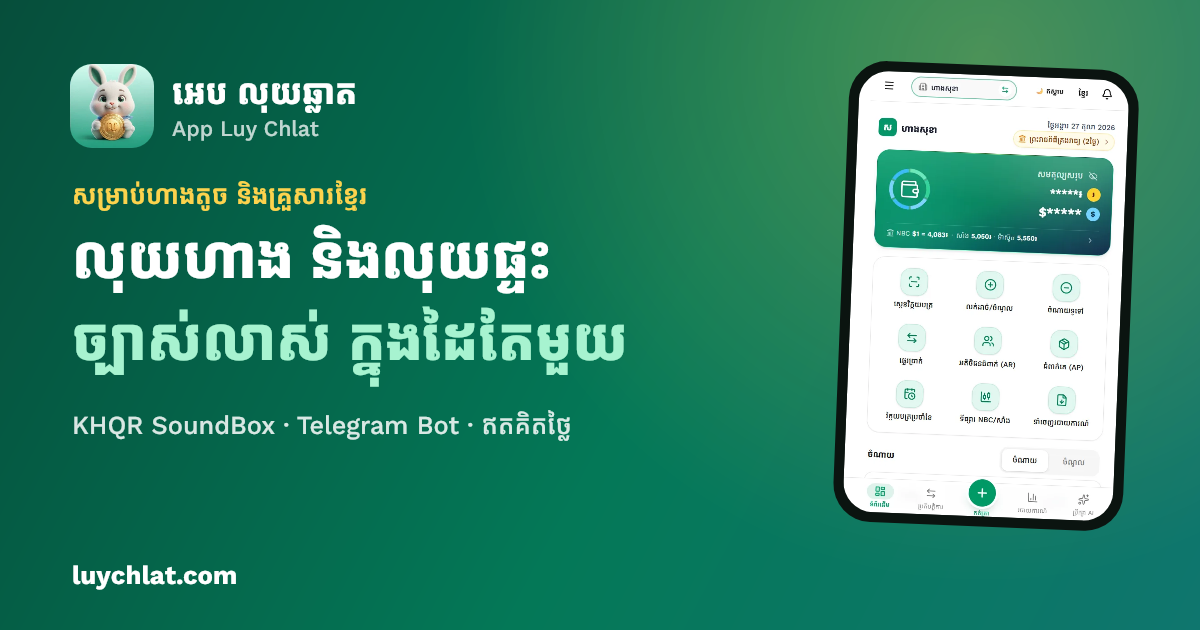
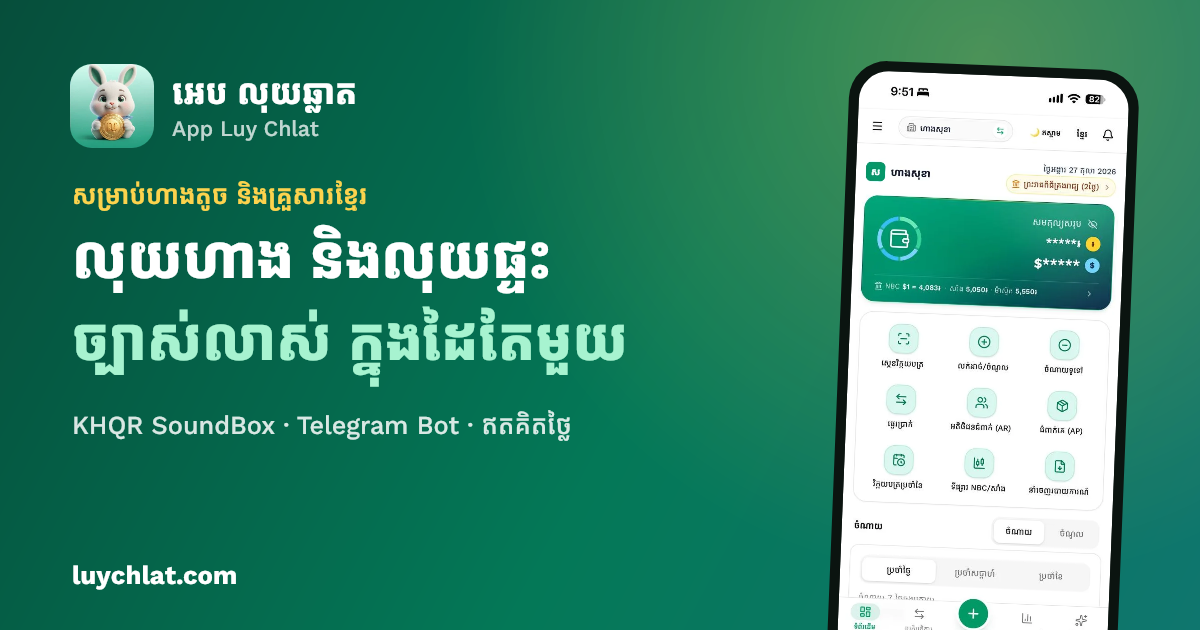
feat(website): the phone shows the founder's full iPhone screenshots — real proportions (9:19.5) with the status bar, under a Dynamic Island; the photo, the name and the shop anonymized («សុខា», «ហាងសុខា»); the sharing card redrawn with them
Khmer: រូបទូរសព្ទលើគេហទំព័រ ប្រើរូបថតពីទូរសព្ទពិត មានសមាមាត្រត្រឹមត្រូវ

Changed region(s): [[0.6783, 0.1206, 0.9558, 1.0], [0.74, 0.1206, 0.8017, 0.1508]]

diff --git a/Website/index.html b/Website/index.html
@@ -66,16 +66,15 @@
           <a class="more-link" href="#business" data-i="hero.more">មើលថាវាជួយហាងអ្នកយ៉ាងដូចម្ដេច ↓</a>
         </div>
 
-        <!-- The real app (founder's screenshots, 27/10/2026 — the photo and the names replaced by a sample) -->
+        <!-- The real app (the founder's iPhone screenshots, 27/10/2026 — the photo and the names replaced by a sample) -->
         <figure class="phone-wrap">
           <div class="phone">
             <div class="screen shots">
-              <div class="sbar" aria-hidden="true"><span>9:41</span><i class="cam"></i><span class="sig">5G <b></b></span></div>
+              <i class="island" aria-hidden="true"></i>
               <div class="viewport">
-              <img class="shot on" src="screen-business.webp" width="592" height="971" alt="អេប លុយឆ្លាត — ទំព័រដើមអាជីវកម្ម" data-label="biz">
-              <img class="shot" src="screen-personal.webp" width="612" height="971" alt="អេប លុយឆ្លាត — ទំព័រដើមផ្ទាល់ខ្លួន" data-label="me" loading="lazy">
+              <img class="shot on" src="screen-business.webp" width="589" height="1280" alt="អេប លុយឆ្លាត — ទំព័រដើមអាជីវកម្ម" data-label="biz">
+              <img class="shot" src="screen-personal.webp" width="589" height="1280" alt="អេប លុយឆ្លាត — ទំព័រដើមផ្ទាល់ខ្លួន" data-label="me" loading="lazy">
               </div>
-              <div class="homebar" aria-hidden="true"></div>
               <div class="ph-toast" aria-hidden="true">
                 <span class="dot">🔊</span>
                 <div><b data-i="ph.sale">ទទួលបាន <span class="amt">25,000 ៛</span></b><small class="via">KHQR · ABA</small></div>

diff --git a/Website/site.css b/Website/site.css
@@ -357,7 +357,8 @@ details a { color: var(--brand); }
 .sbar .sig { display: inline-flex; align-items: center; gap: 5px; }
 .sbar .sig b { display: inline-block; width: 20px; height: 10px; border-radius: 3px; border: 1.5px solid #111827; position: relative; }
 .sbar .sig b::after { content: ""; position: absolute; inset: 1.5px; right: 5px; background: #111827; border-radius: 1px; }
-.viewport { position: relative; aspect-ratio: 592 / 971; flex: none; }
+.viewport { position: relative; aspect-ratio: 589 / 1280; flex: none; }
+.island { position: absolute; z-index: 3; left: 50%; top: 2.2%; width: 30%; height: 3.6%; margin-left: -15%; border-radius: 999px; background: #050806; }
 .homebar { height: 22px; flex: none; background: #fff; position: relative; }
 .homebar::after { content: ""; position: absolute; left: 50%; top: 9px; width: 34%; height: 4px; margin-left: -17%; border-radius: 4px; background: #111827; opacity: .8; }
 .shot { position: absolute; inset: 0; width: 100%; height: 100%; object-fit: cover; object-position: top; opacity: 0; transition: opacity .8s ease; }
